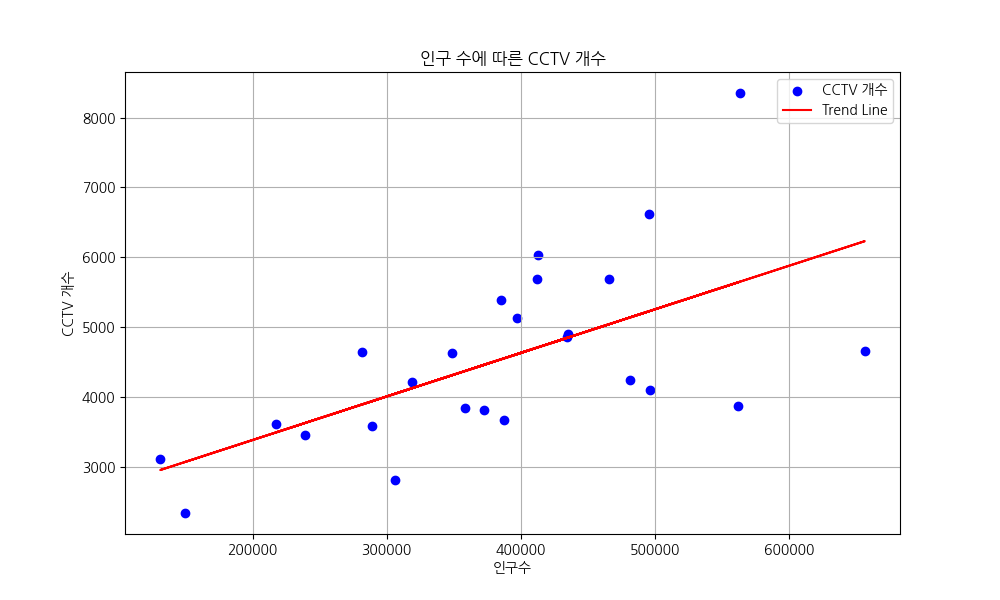
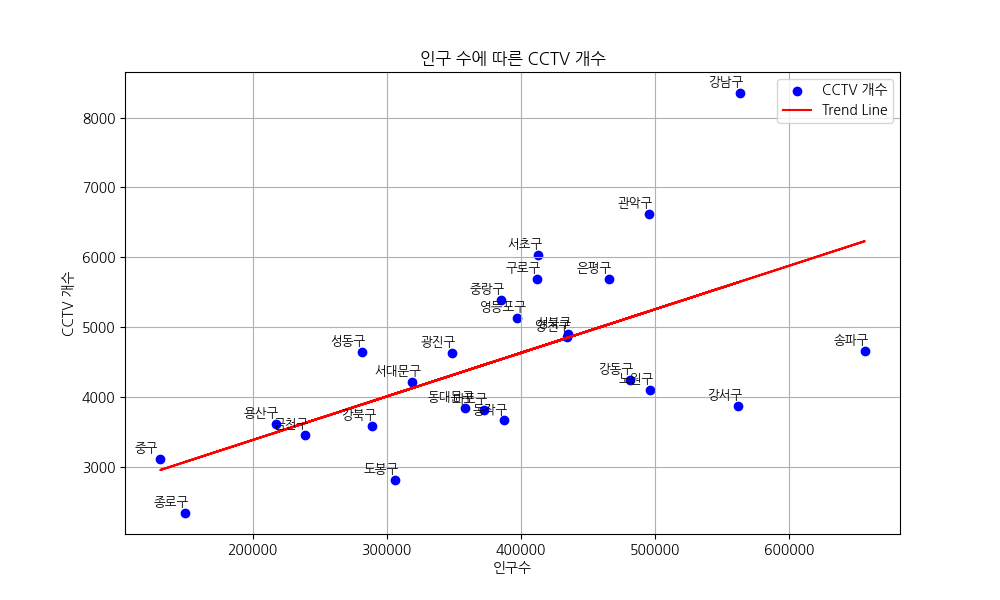
plot image modify end

diff --git a/seoul_cctv.py b/seoul_cctv.py
@@ -50,8 +50,7 @@ def org_data():
     seoul_data = seoul_merge.drop(columns=cols_to_drop) # 필요없는 칼럼 삭제
     
     seoul_data["CCTV비율"] = seoul_data["총 계"] / seoul_data["전체인구"] * 100
-    seoul_data = seoul_data.set_index("구별")
-    print(seoul_data)
+    seoul_data = seoul_data.set_index("구별") #기본 index가 이미지에 출력되서 변경
     
     return seoul_data
 
@@ -66,6 +65,10 @@ def drawPlot():
     line = np.polyfit(seoul_data["전체인구"], seoul_data["총 계"], 1) # 경향선을 위한 1차 함수 만들기
     trend_line = np.poly1d(line)
     plt.plot(seoul_data["전체인구"], trend_line(seoul_data["전체인구"]), color="red", label="Trend Line") # x축방향으로 경향선 그리기
+
+    for i, name in enumerate(seoul_data.index):
+        plt.annotate(name, (seoul_data["전체인구"].iloc[i], seoul_data["총 계"].iloc[i]),
+                     textcoords="offset points", xytext=(-10,5), ha="center", fontsize=9) #각 plot에 해당하는 구 이름 작성하기
 
     plt.title("인구 수에 따른 CCTV 개수")
     plt.xlabel("인구수")
